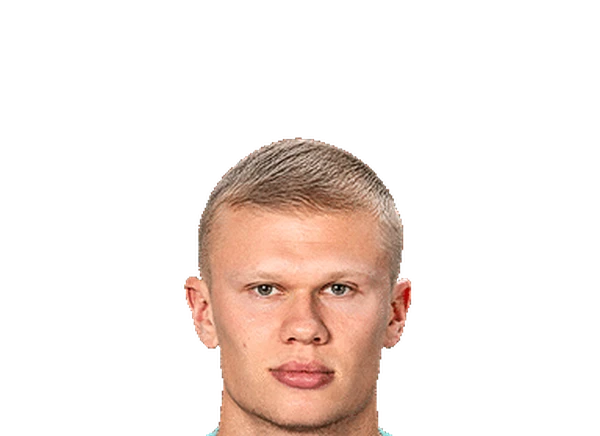
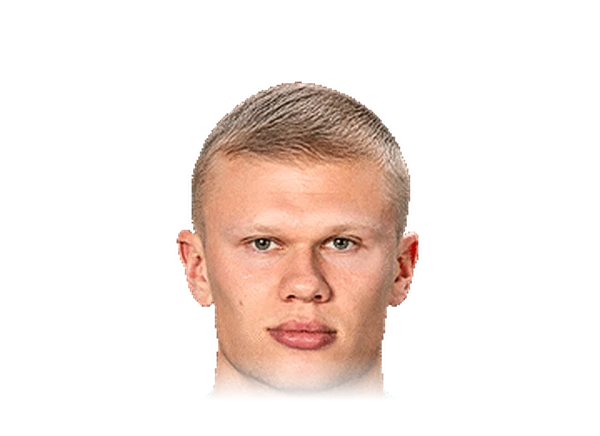
Soccer Home cards: faces raised, the neck fading into the card

Changed region(s): [[0.27, 0.1789, 0.72, 1.0]]

diff --git a/src/components/SoccerApp.jsx b/src/components/SoccerApp.jsx
@@ -143,7 +143,7 @@ const calcOvr = (b, types) => Math.round(SoccerSim.calcSoccerOVR?.(b, types) ?? 
 const archOf = (ovr, b, types) => (SoccerSim.getSoccerArchetype ?? soccerArchetype)(ovr, b, types)
 
 // Home's pool cards: three stars each. ESPN has no photo for most of them, so these cards (only these) use FotMob's
-// studio photos, framed like ESPN's, a little smaller (public/headshots/soccer/fm-<FotMob id>.webp: 300px on 600x436), Messi's too so the six match
+// studio photos, framed like ESPN's, a little smaller and raised (public/headshots/soccer/fm-<FotMob id>.webp: 320px on 600x436, its bottom 36px up, the neck fading out over its last 46px), Messi's too so the six match
 // (the owner, 2026-11-25). The middle face is the big one.
 const FACE_PICKS = {
   current: [['Lamine Yamal', 'soccer/fm-1467236'], ['Erling Haaland', 'soccer/fm-737066'], ['Kylian Mbappé', 'soccer/fm-701154']],
